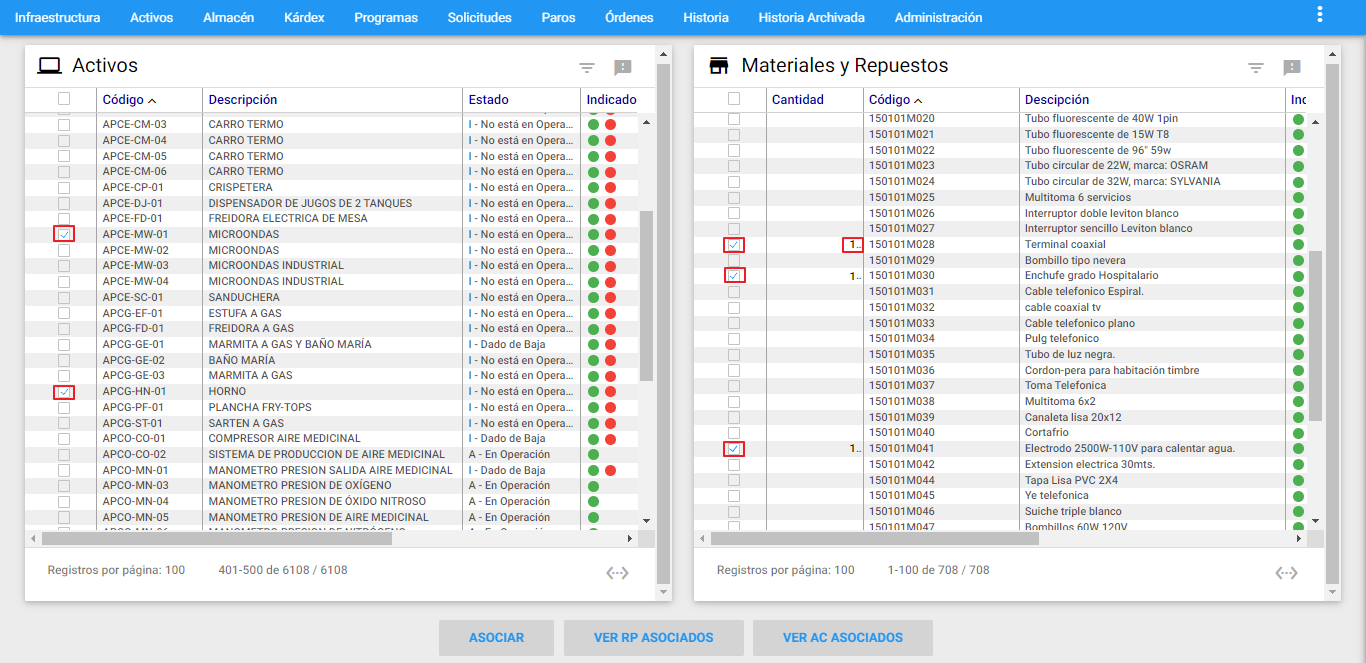
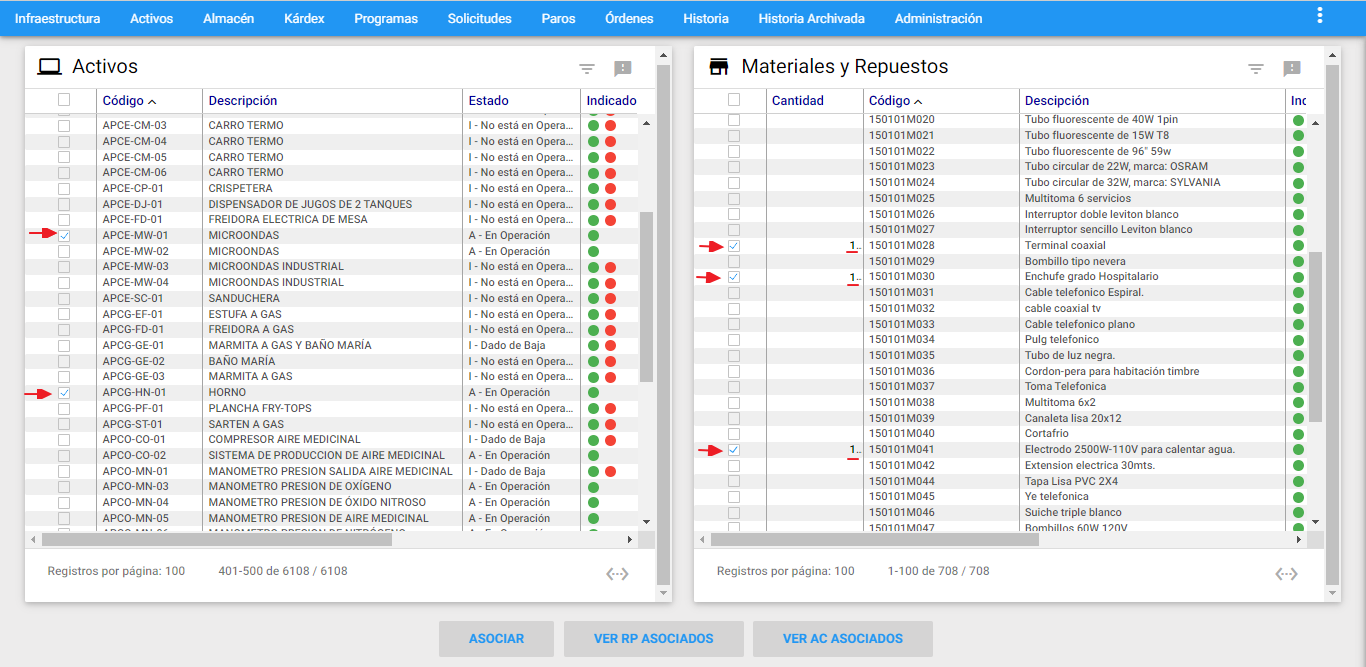
actualización imagen

diff --git a/_docs/04_04_main_window.md b/_docs/04_04_main_window.md
@@ -306,15 +306,16 @@ Al ingresar, en el lado izquierdo se visualizan los Activos y en el derecho los 
 ![Procesar imagen](https://ayuda.winsoftware.com.co/assets/images/cap04/chp04_img23.png)
 _**Imagen 23.** Almacén - Desplazarse en Asociar con Activos_
 
-También se visualizan los indicadores <span class="mdi mdi-message-alert"></span> correspondientes de cada módulo, además se recomienda hacer subgrupos  <span class="mdi mdi-filter-variant"></span> para facilitar la asociación como se muestra a continuación:
+También se visualizan los indicadores <span class="mdi mdi-message-alert"></span> correspondientes de cada módulo, además se recomienda hacer subgrupos  <span class="mdi mdi-filter-variant"></span> para facilitar la asociación de cada lado, como se muestra a continuación:
 
 ![Procesar imagen](https://ayuda.winsoftware.com.co/assets/images/cap04/chp04_img24.png)
 _**Imagen 24.** Almacén - Comandos Asociar con Activos_
 
-La asociación de los Repuestos con los Activos, inicia al dar clic a los **check box**, que están al lado izquierdo en la primera columna de la porción de Activos y se puede seleccionar uno o  varios, luego se elige uno o varios Repuestos dando clic a los **check box** que serán asociados a los Activos seleccionados y se asigna la cantidad para cada Repuesto, **AM** asigna por defecto la cantidad 1, como se muestra a continuación:
+La asociación de los Repuestos con los Activos, inicia al dar clic a los **check box** <a class="btn black"><span class="mdi mdi-checkbox-blank-outline"></a>, que están al lado izquierdo en la primera columna de la porción de Activos y en la porción derecha de Repuestos. Es posible seleccionar uno o varios al tiempo, de esta manera los Repuestos que serán asociados al o los Activos seleccionados muestran la cantidad inicial (1) que es asociada por defecto. El usuario puede cambiar la cantidad del Repuesto a asociar dependiendo de las cantidades en Existencia en el inventario de AM, como se muestra a continuación:  
 
-![ detalle de materiales y repuestos ](../../assets/images/cap04/chp04_img18.png)
-
+![Procesar imagen](https://ayuda.winsoftware.com.co/assets/images/cap04/chp04_img25.png)
+_**Imagen 25.** Almacén - Selección  Asociar con Activos_
+     
 Para terminar la transacción se da clic al botón `<a class="btn">`Asociar`</a>` inmediatamente se muestra un mensaje confirmando la ejecución de la transacción y se observa el resultado de la asociación realizada.
 
 ![activos](../../assets/images/cap04/chp04_img19.png)
